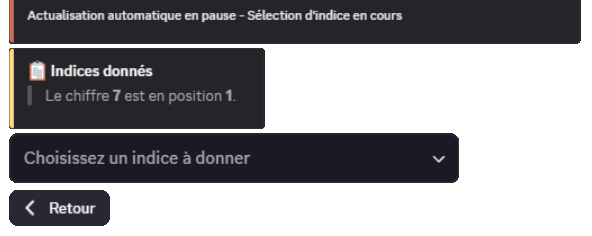
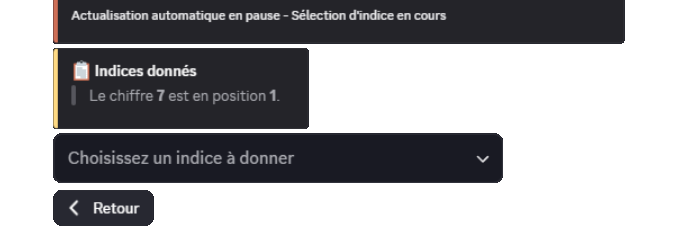
🔄 Replace image: bot_dashboard_hints.png

Changed region(s): [[0.0, 0.0, 0.6993, 0.9788], [0.9122, 0.0, 1.0, 0.2076], [0.6993, 0.5636, 0.7905, 0.8008]]

diff --git a/docs/2.modules/30.bingo.md b/docs/2.modules/30.bingo.md
@@ -66,6 +66,8 @@ Le **premier joueur à deviner** le nombre secret remporte la partie ! Un messag
 
 Pendant la partie, des **indices** peuvent être donnés **manuellement par l'organisateur** via le tableau de bord admin pour aider les joueurs à se rapprocher du nombre secret.
 
+![Dashboard](../assets/bingo/bot_dashboard_hints.png)
+
 | Type d'indice | Description | Exemple |
 |---------------|-------------|---------|
 | **Parité** | Indique si le nombre est pair ou impair | "Le nombre est **pair**" |
